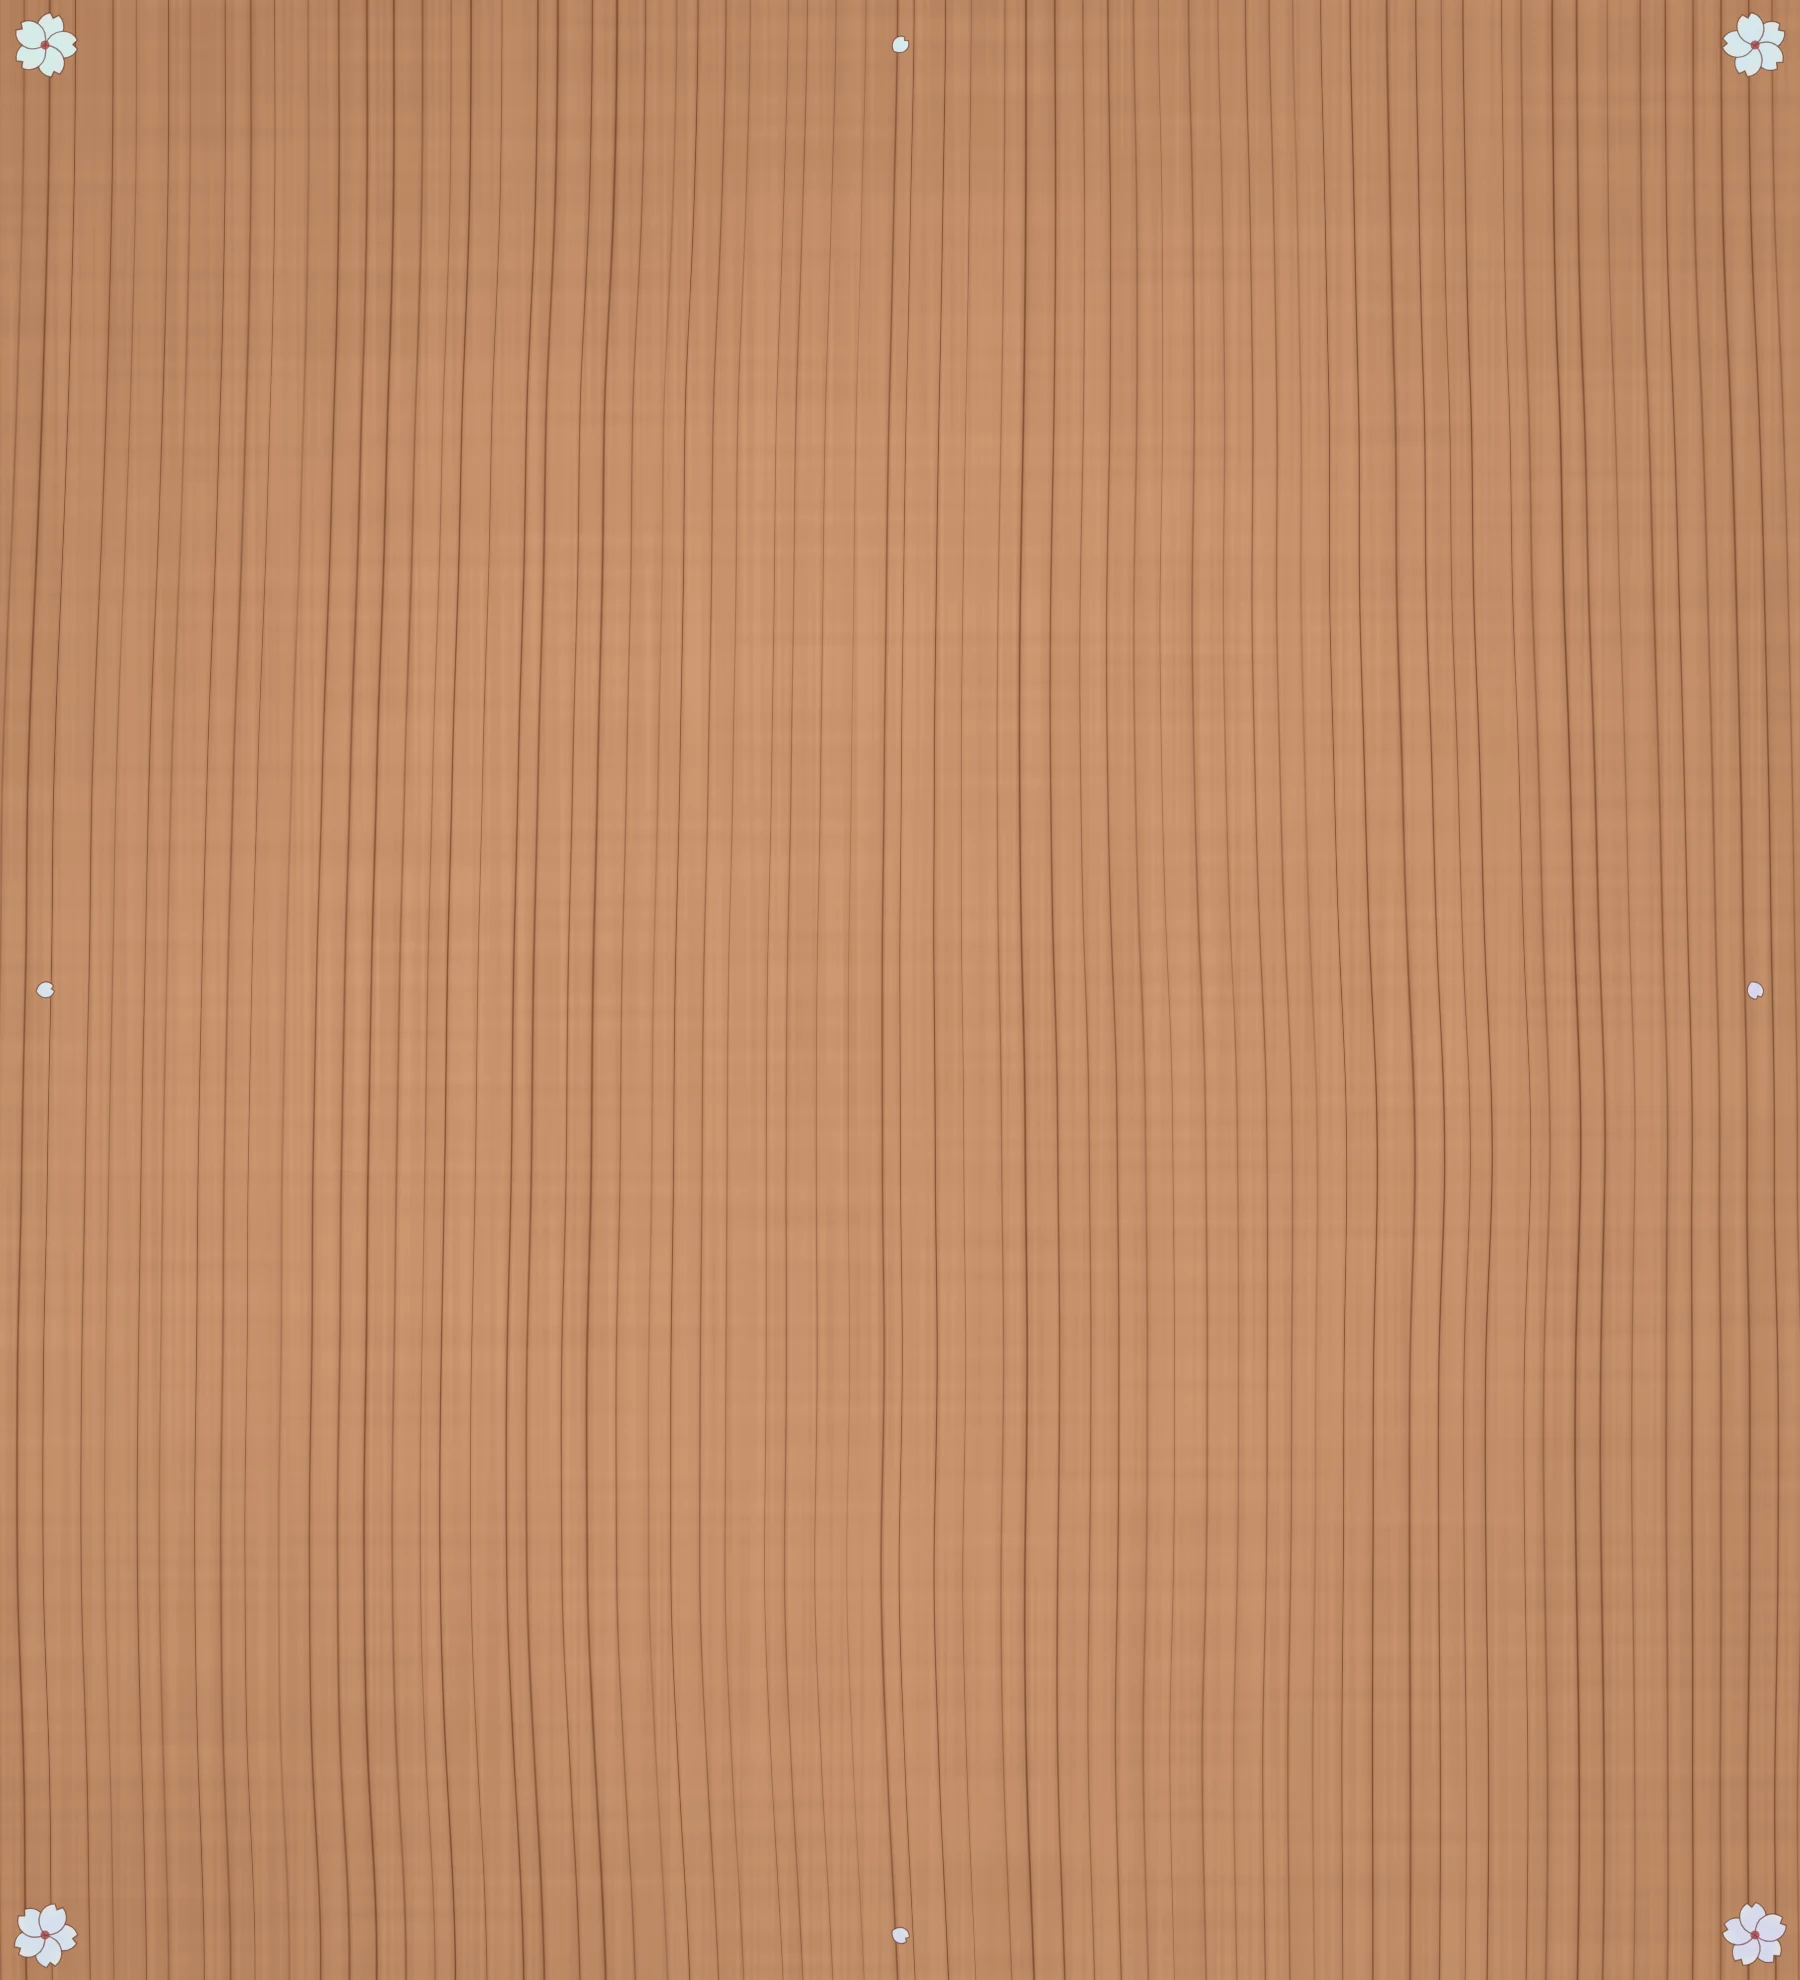
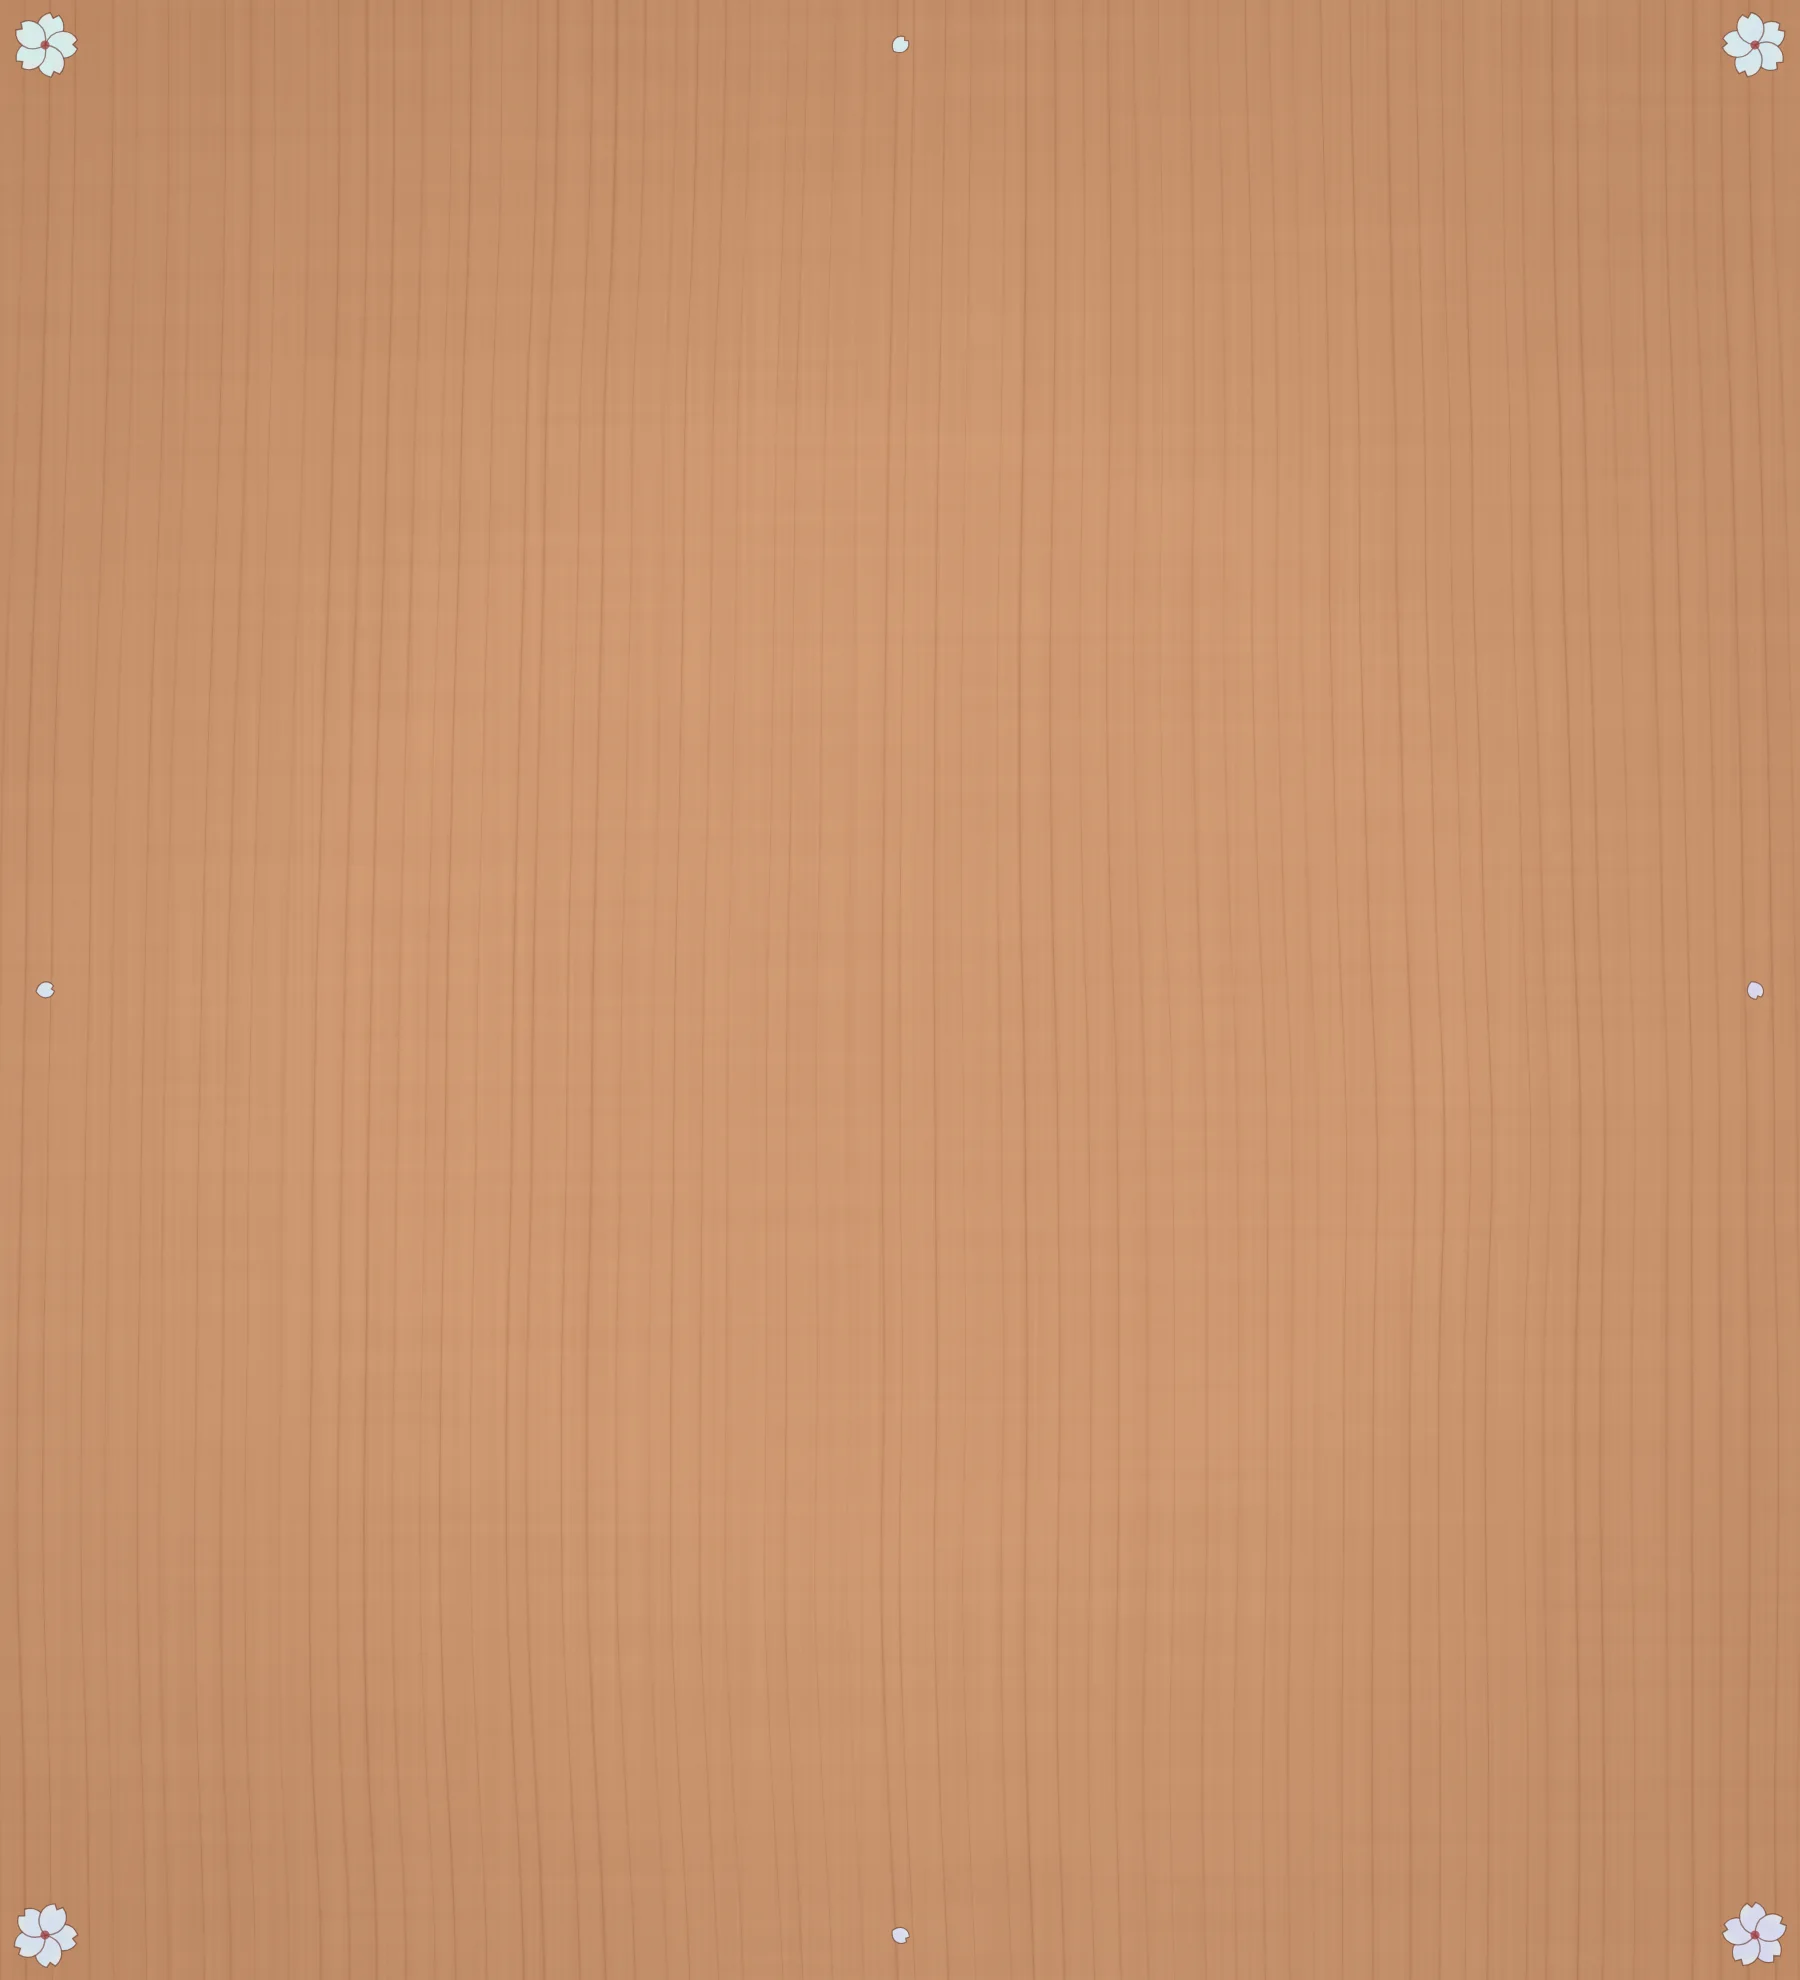
将棋3D盤：山桜の盤面の木目を薄く
Claude-Session: https://claude.ai/code/session_01EiWRAWLV8eg6m15v5x8gee

diff --git a/atlas/lazy.js b/atlas/lazy.js
@@ -5,7 +5,7 @@
      AtlasLazy.has3D(id) / hasPlay(id) / hasRules(id) — known before loading; AtlasLazy.loaded(id) */
 (function () {
 'use strict';
-const G = {"reversi": ["games/reversi.js?v=36", "rules/reversi.js?v=14"], "shogi": ["models/shogi.js?v=43", "games/shogi-play.js?v=32", "games/shogi.js?v=14", "rules/shogi.js?v=21"], "chess": ["models/chess.js?v=16", "games/chess.js?v=15", "rules/chess.js?v=7"], "backgammon": ["models/backgammon.js?v=118", "games/backgammon.js?v=22", "rules/backgammon.js?v=11"], "gomoku": ["models/goban.js?v=14", "games/gomoku.js?v=12", "rules/gomoku.js?v=9"], "go": ["models/goban.js?v=14", "games/go.js?v=7", "rules/go.js?v=7"], "hex": ["models/goban.js?v=14", "models/hex.js?v=2", "games/hex.js?v=6", "rules/hex.js?v=6"], "tafl": ["games/tafl.js?v=15", "rules/tafl.js?v=7"], "xiangqi": ["models/xiangqi.js?v=4", "games/xiangqi.js?v=13", "rules/xiangqi.js?v=6"], "janggi": ["models/xiangqi.js?v=4", "models/janggi.js?v=3", "games/janggi.js?v=5", "rules/janggi.js?v=2"], "checkers": ["models/checkers.js?v=17", "games/checkers.js?v=8", "rules/checkers.js?v=4"], "ugolki": ["models/checkers.js?v=17", "models/ugolki.js?v=4", "games/ugolki.js?v=8", "rules/ugolki.js?v=8"], "morris": ["models/morris.js?v=7", "games/morris-pieces.js?v=2", "games/morris.js?v=7", "rules/morris.js?v=5"], "connect4": ["models/connect4.js?v=5", "games/connect4-tiles.js?v=1", "games/connect4.js?v=5", "rules/connect4.js?v=3"], "mancala": ["models/mancala.js?v=5", "games/mancala.js?v=10", "rules/mancala.js?v=4"], "dots": ["models/dots.js?v=4", "games/dots.js?v=9", "rules/dots.js?v=3"], "ur": ["models/ur-dice.js?v=2", "models/ur.js?v=4", "games/ur-kit.js?v=15", "games/ur.js?v=11", "rules/ur.js?v=16"], "fanorona": ["models/fanorona.js?v=4", "games/fanorona.js?v=6", "rules/fanorona.js?v=8"], "konane": ["models/konane.js?v=7", "games/konane.js?v=11", "rules/konane.js?v=5"], "amazons": ["models/amazons.js?v=7", "games/amazons.js?v=10", "rules/amazons.js?v=4"], "senet": ["models/ur-dice.js?v=2", "models/senet.js?v=10", "games/senet-kit.js?v=5", "games/senet.js?v=16", "rules/senet.js?v=8"], "agon": ["models/agon.js?v=4", "games/agon.js?v=11", "rules/agon.js?v=5"], "alquerque": ["models/alquerque.js?v=3", "rules/alquerque.js?v=6"], "ludo": ["../ludo/engine.js?v=3", "../ludo/house.js?v=7", "../ludo/board2d.js?v=7", "../ludo/board-art.js?v=3", "models/ludo.js?v=10", "games/ludo.js?v=28", "rules/ludo.js?v=3"], "carrom": ["../carrom/engine.js?v=6", "models/carrom.js?v=17", "games/carrom.js?v=37", "rules/carrom.js?v=8"], "crokinole": ["../carrom/engine.js?v=6", "games/carrom.js?v=37", "../crokinole/engine.js?v=3", "models/crokinole.js?v=12", "games/crokinole.js?v=14", "rules/crokinole.js?v=4"], "hockey": ["../hockey/engine.js?v=13", "models/hockey.js?v=8", "games/hockey.js?v=19", "rules/hockey.js?v=7"], "peg": ["../peg/engine.js?v=1", "../peg/i18n.js?v=6", "models/peg.js?v=6", "games/peg.js?v=1", "rules/peg.js?v=4"]};
+const G = {"reversi": ["games/reversi.js?v=36", "rules/reversi.js?v=14"], "shogi": ["models/shogi.js?v=44", "games/shogi-play.js?v=32", "games/shogi.js?v=14", "rules/shogi.js?v=21"], "chess": ["models/chess.js?v=16", "games/chess.js?v=15", "rules/chess.js?v=7"], "backgammon": ["models/backgammon.js?v=118", "games/backgammon.js?v=22", "rules/backgammon.js?v=11"], "gomoku": ["models/goban.js?v=14", "games/gomoku.js?v=12", "rules/gomoku.js?v=9"], "go": ["models/goban.js?v=14", "games/go.js?v=7", "rules/go.js?v=7"], "hex": ["models/goban.js?v=14", "models/hex.js?v=2", "games/hex.js?v=6", "rules/hex.js?v=6"], "tafl": ["games/tafl.js?v=15", "rules/tafl.js?v=7"], "xiangqi": ["models/xiangqi.js?v=4", "games/xiangqi.js?v=13", "rules/xiangqi.js?v=6"], "janggi": ["models/xiangqi.js?v=4", "models/janggi.js?v=3", "games/janggi.js?v=5", "rules/janggi.js?v=2"], "checkers": ["models/checkers.js?v=17", "games/checkers.js?v=8", "rules/checkers.js?v=4"], "ugolki": ["models/checkers.js?v=17", "models/ugolki.js?v=4", "games/ugolki.js?v=8", "rules/ugolki.js?v=8"], "morris": ["models/morris.js?v=7", "games/morris-pieces.js?v=2", "games/morris.js?v=7", "rules/morris.js?v=5"], "connect4": ["models/connect4.js?v=5", "games/connect4-tiles.js?v=1", "games/connect4.js?v=5", "rules/connect4.js?v=3"], "mancala": ["models/mancala.js?v=5", "games/mancala.js?v=10", "rules/mancala.js?v=4"], "dots": ["models/dots.js?v=4", "games/dots.js?v=9", "rules/dots.js?v=3"], "ur": ["models/ur-dice.js?v=2", "models/ur.js?v=4", "games/ur-kit.js?v=15", "games/ur.js?v=11", "rules/ur.js?v=16"], "fanorona": ["models/fanorona.js?v=4", "games/fanorona.js?v=6", "rules/fanorona.js?v=8"], "konane": ["models/konane.js?v=7", "games/konane.js?v=11", "rules/konane.js?v=5"], "amazons": ["models/amazons.js?v=7", "games/amazons.js?v=10", "rules/amazons.js?v=4"], "senet": ["models/ur-dice.js?v=2", "models/senet.js?v=10", "games/senet-kit.js?v=5", "games/senet.js?v=16", "rules/senet.js?v=8"], "agon": ["models/agon.js?v=4", "games/agon.js?v=11", "rules/agon.js?v=5"], "alquerque": ["models/alquerque.js?v=3", "rules/alquerque.js?v=6"], "ludo": ["../ludo/engine.js?v=3", "../ludo/house.js?v=7", "../ludo/board2d.js?v=7", "../ludo/board-art.js?v=3", "models/ludo.js?v=10", "games/ludo.js?v=28", "rules/ludo.js?v=3"], "carrom": ["../carrom/engine.js?v=6", "models/carrom.js?v=17", "games/carrom.js?v=37", "rules/carrom.js?v=8"], "crokinole": ["../carrom/engine.js?v=6", "games/carrom.js?v=37", "../crokinole/engine.js?v=3", "models/crokinole.js?v=12", "games/crokinole.js?v=14", "rules/crokinole.js?v=4"], "hockey": ["../hockey/engine.js?v=13", "models/hockey.js?v=8", "games/hockey.js?v=19", "rules/hockey.js?v=7"], "peg": ["../peg/engine.js?v=1", "../peg/i18n.js?v=6", "models/peg.js?v=6", "games/peg.js?v=1", "rules/peg.js?v=4"]};
 const F = {"reversi": {"t3": true, "play": true, "rules": true}, "shogi": {"t3": true, "play": true, "rules": true}, "chess": {"t3": true, "play": true, "rules": true}, "backgammon": {"t3": true, "play": true, "rules": true}, "gomoku": {"t3": true, "play": true, "rules": true}, "go": {"t3": true, "play": true, "rules": true}, "hex": {"t3": true, "play": true, "rules": true}, "tafl": {"t3": true, "play": true, "rules": true}, "xiangqi": {"t3": true, "play": true, "rules": true}, "janggi": {"t3": true, "play": true, "rules": true}, "checkers": {"t3": true, "play": true, "rules": true}, "ugolki": {"t3": true, "play": true, "rules": true}, "morris": {"t3": true, "play": true, "rules": true}, "connect4": {"t3": true, "play": true, "rules": true}, "mancala": {"t3": true, "play": true, "rules": true}, "dots": {"t3": true, "play": true, "rules": true}, "ur": {"t3": true, "play": true, "rules": true}, "fanorona": {"t3": true, "play": true, "rules": true}, "konane": {"t3": true, "play": true, "rules": true}, "amazons": {"t3": true, "play": true, "rules": true}, "senet": {"t3": true, "play": true, "rules": true}, "agon": {"t3": true, "play": true, "rules": true}, "alquerque": {"t3": true, "play": false, "rules": true}, "ludo": {"t3": true, "play": true, "rules": true}, "carrom": {"t3": true, "play": true, "rules": true}, "crokinole": {"t3": true, "play": true, "rules": true}, "hockey": {"t3": true, "play": true, "rules": true}, "peg": {"t3": true, "play": true, "rules": true}};
 const done = new Set(), loading = new Map(), ok = new Set();
 function load(src) {

diff --git a/shogi/index.html b/shogi/index.html
@@ -6466,7 +6466,7 @@ if (window.Online && Online.available) setInterval(() => { if (dock.on) chatStar
   const f = document.createElement('link'); f.rel = 'stylesheet'; f.href = 'https://fonts.googleapis.com/css2?family=RocknRoll+One&family=Zen+Maru+Gothic:wght@500;700;900&family=Fredoka:wght@600;700&display=swap'; document.head.appendChild(f);
   const load = src => new Promise((res, rej) => { const s = document.createElement('script'); s.src = src; s.onload = res; s.onerror = rej; document.body.appendChild(s); });
   if (window.AtlasLoading) { AtlasLoading.show(); setTimeout(() => AtlasLoading.hide(), 12000); }   // safety net
-  load('https://cdnjs.cloudflare.com/ajax/libs/three.js/r128/three.min.js').then(() => load('../atlas/img/tex/baked.js?v=1')).then(() => load('../atlas/table3d.js?v=150')).then(() => load('../atlas/tables3d.js?v=64')).then(() => load('../atlas/skin/common.js?v=71')).then(() => load('../atlas/models/shogi.js?v=43')).then(() => load('../atlas/skin/shogi.js?v=37'))
+  load('https://cdnjs.cloudflare.com/ajax/libs/three.js/r128/three.min.js').then(() => load('../atlas/img/tex/baked.js?v=1')).then(() => load('../atlas/table3d.js?v=150')).then(() => load('../atlas/tables3d.js?v=64')).then(() => load('../atlas/skin/common.js?v=71')).then(() => load('../atlas/models/shogi.js?v=44')).then(() => load('../atlas/skin/shogi.js?v=37'))
     .catch(() => { document.documentElement.classList.remove('atlas-skin'); if (window.AtlasLoading) AtlasLoading.hide(); });
 })();
 </script>

diff --git a/atlas/tools/shogi-tex.html b/atlas/tools/shogi-tex.html
@@ -412,8 +412,8 @@
   /* ---------- 山桜 (top) and 樺細工 (cherry bark, the sides) with sakura inlays ---------- */
   function sakuraTop(W, H, s) {
     const c = pix(W, H, (x, y) => {
-      const o = straight(x, y, W, H, s, [212, 158, 118], [138, 84, 54], 64, 1.2, true);
-      const gum = fbm(x / W * 3, y / H * .4, s + 60, 3); if (gum > .7) { const k = (gum - .7) * 1.2; o[0] *= 1 - k; o[1] *= 1 - k * 1.25; o[2] *= 1 - k * 1.3; }   // 山桜's dark gum streaks
+      const o = straight(x, y, W, H, s, [212, 158, 118], [178, 120, 84], 64, .65, true);   // (2026-11-11: a fainter grain)
+      const gum = fbm(x / W * 3, y / H * .4, s + 60, 3); if (gum > .74) { const k = (gum - .74) * .6; o[0] *= 1 - k; o[1] *= 1 - k * 1.25; o[2] *= 1 - k * 1.3; }   // 山桜's dark gum streaks
       return o;
     });
     const g = ctx(c); vignette(g, W, H, 'rgba(90,44,22,.3)', .5);

diff --git a/atlas/models/shogi.js b/atlas/models/shogi.js
@@ -200,7 +200,7 @@
     sakura: { top: 'top-sakura', side: 'sakura', stand: 'sakura', leg: ['#8a3a26', '#4a1c12'], bottom: 0x2a0806, line: 'rgba(48,20,10,.92)', raden: true },   // (v3: 朱溜 lacquer with 螺鈿 cherry blossoms and a 鶯)
   };
   const SH3 = (() => { try { return new URL('../../images/atlas/shogi3d/', (document.currentScript && document.currentScript.src) || location.href).href; } catch (e) { return '../images/atlas/shogi3d/'; } })();
-  const SH3V = '?v=8';
+  const SH3V = '?v=9';
   const lookOf = o => { const k = (o && o.look) || (X.BOARDS && X.BOARDS.shogi ? X.BOARDS.shogi.get() : 'kaya'); return LOOK[k] ? k : 'kaya'; };
   const imgs = {};
   function withImg(name, fn) {

diff --git a/atlas/index.html b/atlas/index.html
@@ -2044,7 +2044,7 @@ window.AtlasRgdTimer = function (btn, ms, alive) {
   }, 60);
 };</script>
 <script src="../shared/tapword.js?v=1"></script>
-<script src="lazy.js?v=74"></script>
+<script src="lazy.js?v=75"></script>
 <script src="puzzle-lines.js?v=1"></script>
 <script src="puzzles.js?v=12"></script>
 <script src="lessons3d.js?v=9"></script>
